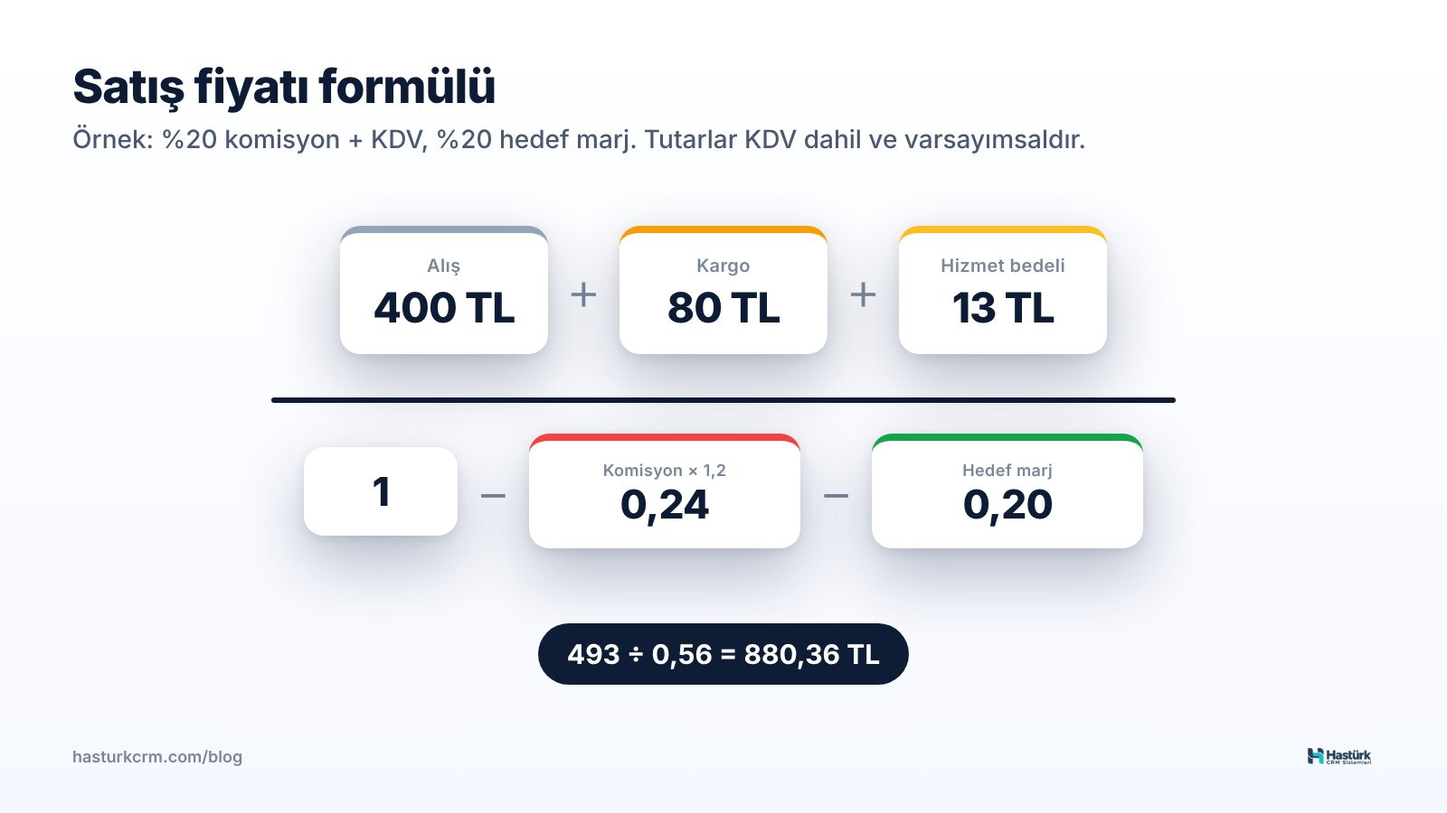
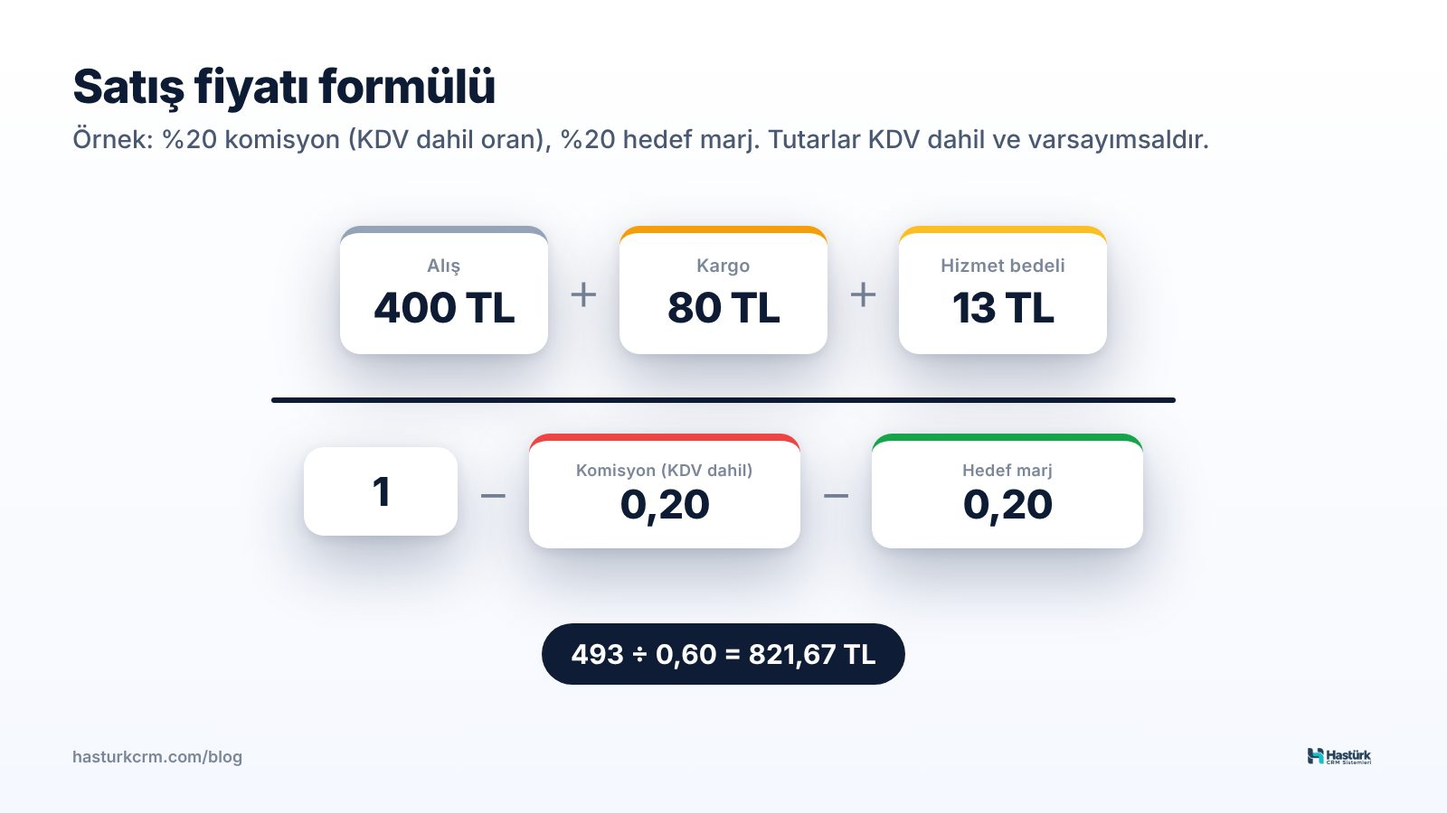
Blog: Trendyol komisyonu KDV dahil — yayındaki 4 yazının örnekleri düzeltildi (elle değiştirilmediyse tek seferlik güncellenir), görseller yenilendi
Claude-Session: https://claude.ai/code/session_01XRDvxG9AZmP7zbj5e9CVqs

Changed region(s): [[0.2188, 0.1556, 0.8438, 0.1867], [0.375, 0.7778, 0.625, 0.84], [0.4062, 0.56, 0.5312, 0.6533]]

diff --git a/panel/src/blogseed-posts-2b.js b/panel/src/blogseed-posts-2b.js
@@ -31,9 +31,9 @@ Bir pazaryeri satışında müşterinin ödediği tutar sizin cebinize olduğu g
 - **Orantılı ve sabit giderler ayrı ele alınır.** Komisyon fiyat yükseldikçe artar; kargo ve hizmet bedeli ise sipariş başına neredeyse sabittir. Bu yüzden düşük fiyatlı ürünlerde sabit giderler kârın büyük kısmını alır. Ayrıntılı örneği [Trendyol komisyon ve net kâr rehberimizde](/blog/trendyol-komisyon-orani-net-kar-hesaplama) bulabilirsiniz.
 - **Stopaj gider değildir, peşin ödenen vergidir.** Pazaryerleri 1 Ocak 2025'ten beri satıcıya yaptıkları ödemelerden KDV hariç satış tutarının %1'i oranında gelir / kurumlar vergisi kesintisi yapar. Bu tutar hakedişinizi azaltır ama yıllık beyanınızda ödenecek vergiden mahsup edilir. Fiyat hesabında kâr kalemi olarak değil, nakit akışı kalemi olarak düşünün. Tek başına hesaplamak için [stopaj hesaplama aracını](/araclar/e-ticaret-stopaj-hesaplama) kullanabilirsiniz.
 
-### Komisyon neden 1,2 ile çarpılır?
+### Komisyon oranı KDV dahil mi, hariç mi?
 
-Komisyon bir hizmet bedelidir ve pazaryeri komisyon faturasını KDV ekleyerek keser. Panelde %20 olarak gördüğünüz komisyon KDV hariç bir oransa, cebinizden çıkan tutar satış fiyatının %24'üdür (%20 × 1,20). Bu KDV'yi beyannamenizde indirebildiğiniz için kârınızı KDV hariç hesaplarken komisyon yine %20 olarak düşer. Aşağıdaki formüller ürünün ve hizmetlerin %20 KDV'li olduğu durum için kurulmuştur; farklı KDV oranlı ürünlerde hesap aracı oranı kendisi ayarlar.
+Komisyon bir hizmet bedelidir ve KDV'ye tabidir; hesaba başlamadan önce oranın KDV dahil mi hariç mi yayımlandığına bakın. Trendyol'un resmî komisyon tablosundaki oranlar **KDV dahildir**: %20 yazıyorsa cebinizden çıkan tutar satış fiyatının %20'sidir, üzerine ayrıca KDV eklenmez. Hepsiburada'nın resmî listesindeki oranlar ise **KDV hariçtir** (+KDV): %20 yazan bir oranda cebinizden çıkan tutar satış fiyatının %24'üdür (%20 × 1,20). Komisyondaki KDV'yi beyannamenizde indirebildiğiniz için kârınızı KDV hariç hesaplarken komisyonun KDV hariç tutarı düşülür. Aşağıdaki örneklerde komisyon oranı KDV dahildir; formüller ürünün ve hizmetlerin %20 KDV'li olduğu durum için kurulmuştur; farklı KDV oranlı ürünlerde hesap aracı oranı kendisi ayarlar.
 
 ## Kâr marjı ve kâr oranı (markup) aynı şey değildir
 
@@ -46,50 +46,50 @@ Pazaryerinde ikisi arasındaki fark çok daha büyüktür, çünkü satış fiya
 
 ### "Maliyetin üstüne %50 koydum" hatası
 
-Aşağıdaki örnekte tüm oranlar ve tutarlar **varsayımsaldır**. Ürün %20 KDV'li, alış maliyeti 400 TL (KDV dahil), komisyon %20 + KDV, kargo 80 TL (KDV dahil), platform hizmet bedeli 13 TL (KDV dahil). Satıcı maliyetin üstüne %50 ekleyip ürünü 600 TL'ye satıyor:
+Aşağıdaki örnekte tüm oranlar ve tutarlar **varsayımsaldır**. Ürün %20 KDV'li, alış maliyeti 400 TL (KDV dahil), komisyon %20 (KDV dahil oran), kargo 80 TL (KDV dahil), platform hizmet bedeli 13 TL (KDV dahil). Satıcı maliyetin üstüne %50 ekleyip ürünü 600 TL'ye satıyor:
 
 | Kalem (KDV hariç) | Tutar |
 | --- | --- |
 | Satış (600 ÷ 1,20) | 500,00 TL |
-| Komisyon (%20) | −120,00 TL |
+| Komisyon (%20) | −100,00 TL |
 | Kargo (80 ÷ 1,20) | −66,67 TL |
 | Hizmet bedeli (13 ÷ 1,20) | −10,83 TL |
 | Alış maliyeti (400 ÷ 1,20) | −333,33 TL |
-| **Kâr** | **−30,83 TL** |
+| **Kâr** | **−10,83 TL** |
 
-Satıcı "her satıştan 200 TL kazanıyorum" diye düşünürken aslında her satışta yaklaşık 31 TL zarar ediyor. Ciro arttıkça zarar da büyüyor. Bu tablo, fiyatı neden maliyetten ileriye değil hedef kârdan geriye doğru hesaplamanız gerektiğini özetliyor.
+Satıcı "her satıştan 200 TL kazanıyorum" diye düşünürken aslında her satışta yaklaşık 11 TL zarar ediyor. Ciro arttıkça zarar da büyüyor. Bu tablo, fiyatı neden maliyetten ileriye değil hedef kârdan geriye doğru hesaplamanız gerektiğini özetliyor.
 
 ## Satış fiyatı formülü
 
 Hedef kârınızı KDV hariç satış tutarına oranla, yani **kâr marjı** olarak belirlediğinizde satış fiyatı (KDV dahil) şöyle bulunur:
 
-**Satış fiyatı = (Alış maliyeti + Kargo + Hizmet bedeli) ÷ (1 − 1,2 × Komisyon oranı − Hedef marj)**
+**Satış fiyatı = (Alış maliyeti + Kargo + Hizmet bedeli) ÷ (1 − Komisyon oranı − Hedef marj)**
 
-![Satış fiyatı formülü: sabit giderler bölü komisyon ve hedef marjdan kalan pay](https://hasturkcrm.com/img/blog/satis-fiyati-formulu.jpg "Örnek: 493 TL sabit gider, %20 komisyon + KDV ve %20 hedef marjla satış fiyatı")
+![Satış fiyatı formülü: sabit giderler bölü komisyon ve hedef marjdan kalan pay](https://hasturkcrm.com/img/blog/satis-fiyati-formulu.jpg "Örnek: 493 TL sabit gider, %20 komisyon (KDV dahil) ve %20 hedef marjla satış fiyatı")
 
-Formüldeki tüm tutarlar KDV dahildir; komisyon oranı KDV hariç bir orana göre yazılmıştır (Hepsiburada listesi gibi). Oranınız zaten KDV dahilse (Trendyol listesi gibi) 1,2 ile çarpmayın, oranı olduğu gibi kullanın. Paydadaki 1,2 × komisyon, KDV'siyle birlikte komisyonun fiyat içindeki payıdır. Hedef marj ise kârınızın KDV hariç satış tutarına oranıdır.
+Formüldeki tüm tutarlar KDV dahildir; komisyon oranı KDV dahil orandır (Trendyol'un resmî tablosundaki gibi), yani KDV'siyle birlikte komisyonun fiyat içindeki payıdır. Oranınız KDV hariç yayımlanıyorsa (Hepsiburada'nın resmî listesi gibi) formülde oranı 1,2 ile çarparak kullanın: %20 + KDV için 0,24. Hedef marj ise kârınızın KDV hariç satış tutarına oranıdır.
 
 ### Adım adım örnek
 
 Aynı ürün için hedefimiz, KDV hariç satış tutarının %20'si kadar kâr bırakmak olsun.
 
 1. **Sabit giderleri toplayın:** 400 (alış) + 80 (kargo) + 13 (hizmet bedeli) = 493 TL.
-2. **Paydayı bulun:** 1 − (1,2 × 0,20) − 0,20 = 1 − 0,24 − 0,20 = 0,56.
-3. **Bölün:** 493 ÷ 0,56 = 880,36 TL.
-4. **Yuvarlayın:** Fiyatı 879,90 TL olarak belirleyelim.
+2. **Paydayı bulun:** 1 − 0,20 − 0,20 = 0,60.
+3. **Bölün:** 493 ÷ 0,60 = 821,67 TL.
+4. **Yuvarlayın:** Fiyatı 819,90 TL olarak belirleyelim.
 
 Sağlamasını KDV hariç tutarlarla yapalım:
 
 | Kalem (KDV hariç) | Tutar |
 | --- | --- |
-| Satış (879,90 ÷ 1,20) | 733,25 TL |
-| Komisyon (%20) | −175,98 TL |
+| Satış (819,90 ÷ 1,20) | 683,25 TL |
+| Komisyon (%20) | −136,65 TL |
 | Kargo | −66,67 TL |
 | Hizmet bedeli | −10,83 TL |
 | Alış maliyeti | −333,33 TL |
-| **Kâr** | **146,44 TL** |
+| **Kâr** | **135,77 TL** |
 
-146,44 ÷ 733,25 = **%20,0**. Hedeflenen marj tutuyor. Bu siparişte hakedişiniz 879,90 − 211,18 (KDV'li komisyon) − 80 − 13 − 7,33 (stopaj) = **568,39 TL** olur; kârın bir kısmı KDV farkı olarak devlete, stopaj kadarı da yıl sonunda vergiden mahsup edilmek üzere vergi dairesine gider.
+135,77 ÷ 683,25 = **%19,9**. Fiyatı aşağı yuvarladığımız küçük payla hedeflenen marj tutuyor. Bu siparişte hakedişiniz 819,90 − 163,98 (KDV dahil komisyon) − 80 − 13 − 6,83 (stopaj) = **556,09 TL** olur; kârın bir kısmı KDV farkı olarak devlete, stopaj kadarı da yıl sonunda vergiden mahsup edilmek üzere vergi dairesine gider.
 
 ### Hedef marja göre gereken fiyat
 
@@ -97,12 +97,12 @@ Aynı varsayımlarla farklı hedef marjlar için gereken fiyat:
 
 | Hedef marj | Gereken satış fiyatı (KDV dahil) | Sipariş başına kâr (KDV hariç) |
 | --- | --- | --- |
-| %0 (başabaş) | 648,68 TL | 0,00 TL |
-| %10 | 746,97 TL | 62,25 TL |
-| %20 | 880,36 TL | 146,73 TL |
-| %30 | 1.071,74 TL | 267,93 TL |
+| %0 (başabaş) | 616,25 TL | 0,00 TL |
+| %10 | 704,29 TL | 58,69 TL |
+| %20 | 821,67 TL | 136,94 TL |
+| %30 | 986,00 TL | 246,50 TL |
 
-Tablodaki ilk satır özellikle önemlidir: **648,68 TL bu ürünün başabaş fiyatıdır.** Bunun altındaki her satış, kesintiler ve maliyet düşüldükten sonra zarar demektir. Kampanyaya katılırken, buybox için fiyat kırarken ya da otomatik fiyat kuralı tanımlarken alt sınırınız bu fiyatın üstünde olmalıdır.
+Tablodaki ilk satır özellikle önemlidir: **616,25 TL bu ürünün başabaş fiyatıdır.** Bunun altındaki her satış, kesintiler ve maliyet düşüldükten sonra zarar demektir. Kampanyaya katılırken, buybox için fiyat kırarken ya da otomatik fiyat kuralı tanımlarken alt sınırınız bu fiyatın üstünde olmalıdır.
 
 ## Reklam, iade ve diğer giderleri fiyata katmak
 
@@ -120,12 +120,12 @@ Aynı ürün farklı kanallarda farklı kesintilerle satılır. Komisyon oranı,
 
 | | Kanal A | Kanal B |
 | --- | --- | --- |
-| Komisyon (KDV hariç) | %20 | %15 |
+| Komisyon (KDV dahil) | %20 | %15 |
 | Kargo (KDV dahil) | 80 TL | 70 TL |
 | Hizmet bedeli (KDV dahil) | 13 TL | Yok |
-| %20 marj için gereken fiyat | 880,36 TL | 758,06 TL |
+| %20 marj için gereken fiyat | 821,67 TL | 723,08 TL |
 
-Fark %16'yı aşıyor. Bu noktada iki yaklaşım vardır:
+Fark %13'ü aşıyor. Bu noktada iki yaklaşım vardır:
 
 - **Her kanalda kendi hesabına göre fiyat:** Her kanalda aynı marjı korursunuz. Dezavantajı, müşterinin fiyat farkını görmesi ve kanallar arasında fiyat takibinin zorlaşmasıdır.
 - **Tek fiyat:** Yönetimi kolaydır ama düşük kesintili kanalda fazla, yüksek kesintili kanalda az kâr edersiniz. Yüksek kesintili kanalda başabaş fiyatın altına düşmediğinizi mutlaka kontrol edin.
@@ -134,7 +134,7 @@ Pratikte birçok satıcı, kanallar arasında sabit bir oran farkı belirleyip (
 
 ## İndirim ve kampanya fiyatı
 
-Kampanyaya katılmadan önce indirimli fiyatla kârınızı yeniden hesaplayın. Yukarıdaki 879,90 TL'lik ürünü %10 indirimle 791,91 TL'ye sattığınızda komisyon da düşer, ama kargo, hizmet bedeli ve alış maliyeti değişmez. Aynı hesapla kârınız 146,44 TL'den **90,71 TL'ye** iner. Yani %10'luk indirim kârı yaklaşık **%38 azaltır**. Bu kaybı telafi etmek için satış adedinin belirgin biçimde artması gerekir. Kampanya öncesi hesap için [indirim sonrası kâr hesaplama aracı](/araclar/indirim-kar-hesaplama) zarar etmeden yapabileceğiniz en yüksek indirimi gösterir.
+Kampanyaya katılmadan önce indirimli fiyatla kârınızı yeniden hesaplayın. Yukarıdaki 819,90 TL'lik ürünü %10 indirimle 737,91 TL'ye sattığınızda komisyon da düşer, ama kargo, hizmet bedeli ve alış maliyeti değişmez. Aynı hesapla kârınız 135,77 TL'den **81,11 TL'ye** iner. Yani %10'luk indirim kârı yaklaşık **%40 azaltır**. Bu kaybı telafi etmek için satış adedinin belirgin biçimde artması gerekir. Kampanya öncesi hesap için [indirim sonrası kâr hesaplama aracı](/araclar/indirim-kar-hesaplama) zarar etmeden yapabileceğiniz en yüksek indirimi gösterir.
 
 İndirim yaparken yasal bir kuralı da unutmayın: Fiyat Etiketi Yönetmeliği'nde 2022'de yapılan değişiklikle, indirimli satışta indirimden önceki fiyat olarak **indirimden önceki 30 gün içinde uygulanan en düşük fiyat** esas alınır. Fiyatı önce yükseltip ardından "indirim" göstermek bu kurala aykırıdır ve ispat yükü satıcıdadır. Kampanya fiyatlarınızı planlarken fiyat geçmişinizi kayıt altında tutun.
 
@@ -145,7 +145,7 @@ Formül size alt sınırı ve hedef fiyatı verir; ama son fiyatı belirlerken p
 - **Maliyet bazlı fiyat:** Yukarıdaki formülle hedef marjdan fiyat bulunur. Rekabetin az olduğu, kendi markanızla sattığınız ürünlerde ana yöntemdir.
 - **Rekabet bazlı fiyat:** Aynı ürünü başka satıcılar da satıyorsa fiyat büyük ölçüde pazarda belirlenir. Burada formül size "bu fiyata inebilir miyim?" sorusunun cevabını verir: piyasa fiyatı başabaş fiyatınızın altındaysa, o üründe rekabet etmek yerine maliyetinizi düşürmeyi ya da ürünü bırakmayı düşünmelisiniz.
 - **Değer bazlı fiyat:** Müşterinin ürüne biçtiği değere göre fiyat koymaktır. Güçlü marka, özgün ürün, iyi yorumlar ve hızlı teslimat daha yüksek fiyatı taşıyabilir.
-- **Psikolojik fiyat:** 880 TL yerine 879,90 TL gibi küsuratlı fiyatlar yaygındır. Etkisi kategoriye göre değişir; yuvarlamanın marjınızı başabaşın altına itmediğinden emin olun.
+- **Psikolojik fiyat:** 820 TL yerine 819,90 TL gibi küsuratlı fiyatlar yaygındır. Etkisi kategoriye göre değişir; yuvarlamanın marjınızı başabaşın altına itmediğinden emin olun.
 - **Set ve paket fiyatı:** Sabit kesintiler düşük fiyatlı ürünlerde kârı eritiyorsa, ikili ya da üçlü set yaparak kargo ve hizmet bedelini birden fazla ürüne bölebilirsiniz.
 
 Aynı ürünü birden fazla satıcının sattığı ilanlarda fiyat, buybox için de belirleyici etkenlerden biridir. Ama buybox için fiyat kırarken bile başabaş fiyatın altına inmemek gerekir.
@@ -167,7 +167,7 @@ Dövizle aldığınız ürünlerde kur değişikliklerini elle takip etmek zordu
 
 - **Maliyete yüzde ekleyip kesintileri unutmak:** Yukarıdaki örnekte olduğu gibi %50 kâr oranı zarara dönüşebilir.
 - **KDV dahil ve hariç tutarları karıştırmak:** Satış fiyatı KDV dahil, kâr ise KDV hariç hesaplanmalıdır. İkisini karıştırmak kârı olduğundan yüksek gösterir.
-- **Komisyonun KDV'sini atlamak:** Panelde %20 görünen komisyon nakit olarak fiyatın %24'ünü alır.
+- **Komisyon oranının KDV esasını karıştırmak:** Hepsiburada'nın resmî listesindeki gibi KDV hariç %20'lik bir komisyon nakit olarak fiyatın %24'ünü alır. Trendyol'un resmî tablosundaki oranlar ise KDV dahildir; bunlara ayrıca KDV eklemek kârı olduğundan düşük gösterir.
 - **Stopajı kâr kaybı sanmak ya da tamamen unutmak:** Stopaj nakit akışını etkiler ama yıl sonunda mahsup edilir.
 - **Tek bir ürün için hesap yapıp tüm kataloğa genellemek:** Desi, komisyon ve maliyet ürün bazında değişir; hesap da ürün bazında yapılmalıdır.
 - **Fiyatı bir kez belirleyip unutmak:** Maliyetler ve kesintiler değiştiğinde dünün doğru fiyatı bugün zarar ettirebilir.
@@ -184,7 +184,7 @@ Panelin nasıl çalıştığını kayıt olmadan [canlı demoda](/demo) inceleye
 
 ### Satış fiyatı nasıl hesaplanır?
 
-Alış maliyeti, kargo ve hizmet bedeli gibi sipariş başına sabit giderleri toplayın; bu toplamı 1'den komisyonun KDV'li payını ve hedef kâr marjınızı çıkardığınızda kalan orana bölün. %20 komisyon ve %20 hedef marjla 493 TL'lik sabit gider için fiyat 493 ÷ 0,56 = 880,36 TL olur.
+Alış maliyeti, kargo ve hizmet bedeli gibi sipariş başına sabit giderleri toplayın; bu toplamı 1'den komisyonun KDV dahil payını ve hedef kâr marjınızı çıkardığınızda kalan orana bölün. %20 (KDV dahil) komisyon ve %20 hedef marjla 493 TL'lik sabit gider için fiyat 493 ÷ 0,60 = 821,67 TL olur. Oranınız KDV hariç yayımlanıyorsa (Hepsiburada'nın resmî listesi gibi) önce 1,2 ile çarpın.
 
 ### Kâr marjı ile kâr oranı arasındaki fark nedir?
 
@@ -276,16 +276,16 @@ Buybox rekabetine katılabilmek için bazı temel koşulları sağlamanız gerek
 
 Buybox rekabetinin en tehlikeli yanı fiyat savaşıdır. İki satıcı birbirinin altına inmeye devam ettiğinde fiyat kısa sürede başabaşın altına düşebilir. Bunu önlemenin yolu, her ürün için bir **en düşük fiyat** belirlemektir.
 
-Aşağıdaki örnekte tüm tutarlar **varsayımsaldır**. Ürün %20 KDV'li, alış maliyeti 400 TL, kargo 80 TL, platform hizmet bedeli 13 TL (tümü KDV dahil), komisyon %20 + KDV:
+Aşağıdaki örnekte tüm tutarlar **varsayımsaldır**. Ürün %20 KDV'li, alış maliyeti 400 TL, kargo 80 TL, platform hizmet bedeli 13 TL (tümü KDV dahil), komisyon %20 (Trendyol'un resmî tablosundaki gibi KDV dahil oran):
 
 | Fiyat (KDV dahil) | Sipariş başına kâr (KDV hariç) | Durum |
 | --- | --- | --- |
-| 879,90 TL | 146,44 TL | Hedef fiyat (%20 marj) |
-| 749,90 TL | 64,10 TL | Kâr düşük ama pozitif |
-| 649,90 TL | 0,77 TL | Başabaşın hemen üstü |
-| 629,90 TL | −11,90 TL | Zarar |
+| 819,90 TL | 135,77 TL | Hedef fiyat (%20 marj) |
+| 749,90 TL | 89,10 TL | Kâr düşük ama pozitif |
+| 619,90 TL | 2,43 TL | Başabaşın hemen üstü |
+| 599,90 TL | −10,90 TL | Zarar |
 
-Bu üründe başabaş fiyatı yaklaşık 648,68 TL'dir. Rakip 629,90 TL'ye indiğinde onu takip etmek, her satışta zarar etmek demektir. Bu durumda yapılacak şey fiyat kırmak değil; rakibin bu fiyatı ne kadar sürdürebileceğini izlemek, diğer etkenlerde (teslimat süresi, mağaza performansı) güçlü kalmak ya da maliyetinizi düşürmenin yolunu aramaktır.
+Bu üründe başabaş fiyatı yaklaşık 616,25 TL'dir. Rakip 599,90 TL'ye indiğinde onu takip etmek, her satışta zarar etmek demektir. Bu durumda yapılacak şey fiyat kırmak değil; rakibin bu fiyatı ne kadar sürdürebileceğini izlemek, diğer etkenlerde (teslimat süresi, mağaza performansı) güçlü kalmak ya da maliyetinizi düşürmenin yolunu aramaktır.
 
 Alt sınırı belirlerken yalnız başabaşa değil, kabul edebileceğiniz en düşük kâra göre karar verin. Örneğin "sipariş başına en az 30 TL kâr" gibi bir kural, reklam ve iade gibi öngörülemeyen giderler için güvenlik payı bırakır. Kampanya döneminde fiyatınızı düşürecekseniz [indirim sonrası kâr hesaplama aracıyla](/araclar/indirim-kar-hesaplama) kârınızı önceden kontrol edin.
 
@@ -317,7 +317,7 @@ Fiyatınız en düşük olduğu halde buybox rakipteyse sorun büyük ihtimalle 
 
 Buybox'ı kaybettiğinizde elinizde iki kaldıraç vardır: fiyat ve hizmet. Fiyat kaldıracı hızlıdır ama her kullanımda kârınızdan bir parça götürür ve rakip de aynı kaldıracı kullanabilir. Hizmet kaldıracı (daha kısa kargolama süresi, zamanında teslim, düşük iptal) daha yavaş sonuç verir ama kalıcıdır ve rakibin kopyalaması zordur.
 
-Aşağıdaki örnek (varsayımsal) farkı gösteriyor: yukarıdaki üründe ayda 300 adet satıyorsunuz. Buybox'ı geri almak için fiyatı 879,90 TL'den 849,90 TL'ye indirdiğinizde sipariş başına kârınız KDV hariç yaklaşık 19 TL azalır; bu da ayda yaklaşık 5.700 TL demektir. Aynı tutarı depo düzenine, paketleme hızına ya da kargo teslim saatinin öne alınmasına harcamak, yalnız bu üründe değil tüm ürünlerinizde buybox şansınızı ve mağaza puanınızı iyileştirebilir. Doğru cevap çoğu zaman ikisinin dengesidir: fiyatı alt sınırla korunan küçük adımlarla yönetirken hizmet tarafını sürekli iyileştirmek.
+Aşağıdaki örnek (varsayımsal) farkı gösteriyor: yukarıdaki üründe ayda 300 adet satıyorsunuz. Buybox'ı geri almak için fiyatı 819,90 TL'den 789,90 TL'ye indirdiğinizde sipariş başına kârınız KDV hariç 20 TL azalır; bu da ayda 6.000 TL demektir. Aynı tutarı depo düzenine, paketleme hızına ya da kargo teslim saatinin öne alınmasına harcamak, yalnız bu üründe değil tüm ürünlerinizde buybox şansınızı ve mağaza puanınızı iyileştirebilir. Doğru cevap çoğu zaman ikisinin dengesidir: fiyatı alt sınırla korunan küçük adımlarla yönetirken hizmet tarafını sürekli iyileştirmek.
 
 ### Buybox için haftalık kontrol rutini
 
@@ -559,7 +559,7 @@ Hakediş, en basit haliyle şöyle hesaplanır:
 
 **Hakediş = Satış tutarı − Komisyon − Kargo − Hizmet bedeli − Stopaj − Diğer kesintiler ± Düzeltmeler**
 
-Örneğin (varsayımsal) %20 KDV'li 1.000 TL'lik bir satışta komisyon %20 + KDV (240 TL), kargo 80 TL, platform hizmet bedeli 13 TL ve %1 stopaj (1.000 ÷ 1,20 × %1 = 8,33 TL) düşüldüğünde hakediş **658,67 TL** olur. Bu hesabın ayrıntılarını [Trendyol komisyon ve net kâr rehberimizde](/blog/trendyol-komisyon-orani-net-kar-hesaplama) adım adım anlattık.
+Örneğin (varsayımsal) %20 KDV'li 1.000 TL'lik bir satışta komisyon %20 (Trendyol'un resmî tablosundaki gibi KDV dahil oran; 200 TL), kargo 80 TL, platform hizmet bedeli 13 TL ve %1 stopaj (1.000 ÷ 1,20 × %1 = 8,33 TL) düşüldüğünde hakediş **698,67 TL** olur. Bu hesabın ayrıntılarını [Trendyol komisyon ve net kâr rehberimizde](/blog/trendyol-komisyon-orani-net-kar-hesaplama) adım adım anlattık.
 
 ### Hakediş kâr değildir
 
@@ -608,18 +608,18 @@ Burada dikkat edilmesi gereken nokta, kesinti faturalarının siparişle aynı a
 
 ## Örnek: bir haftalık hakediş kontrolü
 
-Aşağıdaki örnekte tüm tutarlar **varsayımsaldır**. Bu hafta vadesi dolan iki sipariş var; ikisi de %20 KDV'li, komisyon %20 + KDV, hizmet bedeli 13 TL.
+Aşağıdaki örnekte tüm tutarlar **varsayımsaldır**. Bu hafta vadesi dolan iki sipariş var; ikisi de %20 KDV'li, komisyon %20 (KDV dahil oran), hizmet bedeli 13 TL.
 
 | | Sipariş A | Sipariş B |
 | --- | --- | --- |
 | Satış tutarı | 1.000,00 TL | 500,00 TL |
-| Komisyon (%24) | −240,00 TL | −120,00 TL |
+| Komisyon (%20) | −200,00 TL | −100,00 TL |
 | Beklenen kargo | −80,00 TL | −60,00 TL |
 | Hizmet bedeli | −13,00 TL | −13,00 TL |
 | Stopaj | −8,33 TL | −4,17 TL |
-| **Beklenen hakediş** | **658,67 TL** | **302,83 TL** |
+| **Beklenen hakediş** | **698,67 TL** | **322,83 TL** |
 
-Beklenen toplam 961,50 TL. Hesabınıza ise 946,50 TL yatmış: 15 TL fark var. Ekstreyi sipariş bazında açtığınızda A siparişinin kargo faturasının 80 TL yerine 95 TL kesildiğini görüyorsunuz. Paketin desisi faturada bir üst kademeden okunmuş. Bu durumda paket ölçüleri ve ürün kartınızdaki desi bilgisiyle itiraz edebilirsiniz.
+Beklenen toplam 1.021,50 TL. Hesabınıza ise 1.006,50 TL yatmış: 15 TL fark var. Ekstreyi sipariş bazında açtığınızda A siparişinin kargo faturasının 80 TL yerine 95 TL kesildiğini görüyorsunuz. Paketin desisi faturada bir üst kademeden okunmuş. Bu durumda paket ölçüleri ve ürün kartınızdaki desi bilgisiyle itiraz edebilirsiniz.
 
 15 TL tek başına küçük görünür. Ama aynı hata haftada 200 siparişte tekrarlanıyorsa, ayda 12.000 TL'yi aşan bir kayıp demektir. Mutabakatın amacı tam olarak bu küçük ama sürekli farkları yakalamaktır. Kargo farklarını azaltmanın yollarını [kargo maliyetini düşürme rehberimizde](/blog/e-ticarette-kargo-maliyeti-dusurme) ayrıca anlattık.
 

diff --git a/panel/src/blogseed-posts.js b/panel/src/blogseed-posts.js
@@ -730,7 +730,7 @@ Trendyol'un kendi örneğinde %20 komisyonlu bir kategoride 100 TL'lik ürünün
 Hesapta dikkat edilmesi gereken üç nokta var:
 
 - **Oran kategoriye göre değişir.** Aynı mağazada bir ürün düşük, diğeri yüksek komisyonlu olabilir. Doğru oran, ürünün yüklü olduğu kategorinin oranıdır.
-- **Komisyon faturası KDV'lidir.** Komisyon bir hizmet bedelidir ve Trendyol size komisyon faturasını KDV ekleyerek keser. Panelde gördüğünüz oran KDV hariçse, cebinizden çıkan tutar bunun KDV eklenmiş halidir. Ödediğiniz bu KDV'yi, KDV beyannamenizde indirim konusu yapabilirsiniz.
+- **Oran KDV dahildir.** Trendyol'un resmî komisyon tablosundaki oranlar KDV dahil yayımlanır: tabloda %20 yazıyorsa cebinizden çıkan tutar satış fiyatının %20'sidir, üzerine ayrıca KDV eklenmez. Komisyon bir hizmet bedeli olduğu için bu tutarın içinde KDV vardır (%20 KDV'de tutarın altıda biri); bu KDV'yi KDV beyannamenizde indirim konusu yapabilirsiniz. Hepsiburada'nın resmî listesindeki oranlar ise KDV hariçtir; orada komisyona %20 KDV eklenir.
 - **İadede komisyon geri döner.** İadesi onaylanan siparişin daha önce faturalanan komisyonu, bir sonraki komisyon faturasında mahsup edilir.
 
 ### Komisyon oranımı nereden öğrenirim?
@@ -743,7 +743,7 @@ Güncel oranlar satıcı panelinizdeki komisyon bölümünde ve ürün bazında 
 
 | Kalem | Ne zaman uygulanır? | Nasıl hesaplanır? |
 | --- | --- | --- |
-| Satış komisyonu | Her satışta | Satış fiyatı × kategori oranı (+ KDV) |
+| Satış komisyonu | Her satışta | Satış fiyatı × kategori oranı (oran KDV dahil) |
 | Kargo ücreti | Anlaşmalı kargoyla gönderimde | Paketin desisine göre; barem altı siparişte daha düşük |
 | Platform hizmet bedeli | Sipariş başına | Sabit tutar; dönemsel güncellenir |
 | E-ticaret stopajı | Her satışta | KDV hariç satış tutarı × %1 |
@@ -768,20 +768,20 @@ Kesilen stopaj kaybolan bir para değildir: yıllık gelir ya da kurumlar vergis
 
 Aşağıdaki örnekte tüm oranlar ve tutarlar **varsayımsaldır**; yalnızca hesabın mantığını göstermek için seçilmiştir. Kendi kategorinizin oranını ve kendi kargo tutarınızı kullanın.
 
-**Varsayımlar:** Ürün %20 KDV'li. Satış fiyatı 1.000 TL (KDV dahil). Komisyon %20 + KDV. Kargo 80 TL (KDV dahil). Platform hizmet bedeli 13 TL (KDV dahil). Ürünün alış maliyeti 400 TL (KDV dahil, %20 KDV'li).
+**Varsayımlar:** Ürün %20 KDV'li. Satış fiyatı 1.000 TL (KDV dahil). Komisyon %20 (KDV dahil). Kargo 80 TL (KDV dahil). Platform hizmet bedeli 13 TL (KDV dahil). Ürünün alış maliyeti 400 TL (KDV dahil, %20 KDV'li).
 
 ### 1. Adım: Hakediş (elinize geçen tutar)
 
 | Kalem | Tutar |
 | --- | --- |
 | Satış fiyatı (KDV dahil) | 1.000,00 TL |
-| Komisyon (%20 + KDV = %24) | −240,00 TL |
+| Komisyon (%20, KDV dahil) | −200,00 TL |
 | Kargo | −80,00 TL |
 | Platform hizmet bedeli | −13,00 TL |
 | Stopaj (1.000 ÷ 1,20 × %1) | −8,33 TL |
-| **Hakediş** | **658,67 TL** |
+| **Hakediş** | **698,67 TL** |
 
-Toplam kesinti 341,33 TL, yani satış fiyatının yaklaşık üçte biri. Hakedişten alış maliyetini (400 TL) düştüğünüzde **258,67 TL** kalır. Pek çok satıcı hesabı burada bitirir; ama bu rakam henüz kâr değildir, çünkü KDV farkı ödenmemiştir.
+Toplam kesinti 301,33 TL, yani satış fiyatının yaklaşık %30'u. Hakedişten alış maliyetini (400 TL) düştüğünüzde **298,67 TL** kalır. Pek çok satıcı hesabı burada bitirir; ama bu rakam henüz kâr değildir, çünkü KDV farkı ödenmemiştir.
 
 ### 2. Adım: KDV farkı
 
@@ -790,30 +790,30 @@ Müşteriye 1.000 TL'lik fatura kestiğinizde bunun 166,67 TL'si devlete ödeyec
 | KDV kalemi | Tutar |
 | --- | --- |
 | Satıştaki KDV (hesaplanan) | 166,67 TL |
-| Komisyon faturasındaki KDV | −40,00 TL |
+| Komisyondaki KDV (200 TL'nin içinde) | −33,33 TL |
 | Kargo faturasındaki KDV | −13,33 TL |
 | Hizmet bedelindeki KDV | −2,17 TL |
 | Alış faturasındaki KDV | −66,67 TL |
-| **Ödenecek KDV** | **44,50 TL** |
+| **Ödenecek KDV** | **51,17 TL** |
 
 ### 3. Adım: Gerçek kâr
 
-258,67 TL − 44,50 TL = **214,17 TL**. Bu tutara, peşin ödenmiş vergi niteliğindeki 8,33 TL stopajı eklediğinizde KDV hariç kârınız **222,50 TL** olur; yani KDV hariç satış tutarının (833,33 TL) yaklaşık %26,7'si. Gelir ya da kurumlar vergisi bu kâr üzerinden ayrıca hesaplanır.
+298,67 TL − 51,17 TL = **247,50 TL**. Bu tutara, peşin ödenmiş vergi niteliğindeki 8,33 TL stopajı eklediğinizde KDV hariç kârınız **255,83 TL** olur; yani KDV hariç satış tutarının (833,33 TL) yaklaşık %30,7'si. Gelir ya da kurumlar vergisi bu kâr üzerinden ayrıca hesaplanır.
 
-Aynı hesabı KDV hariç tutarlarla yaparak sağlamasını alabilirsiniz: 833,33 (satış) − 200,00 (komisyon) − 66,67 (kargo) − 10,83 (hizmet bedeli) − 333,33 (alış) = 222,50 TL.
+Aynı hesabı KDV hariç tutarlarla yaparak sağlamasını alabilirsiniz: 833,33 (satış) − 166,67 (komisyon) − 66,67 (kargo) − 10,83 (hizmet bedeli) − 333,33 (alış) = 255,83 TL.
 
 > **Önemli:** Bu örnekte reklam, iade, kampanya indirimi, paketleme malzemesi, personel ve kira gibi giderler yoktur. Gerçek hayatta bunlar da kârdan düşer. Özellikle iade oranı yüksek kategorilerde, iade edilen siparişlerin gidiş-dönüş kargo maliyeti hesaba katılmadan bulunan kâr yanıltıcıdır.
 
 ## Sabit kesintiler düşük fiyatlı ürünlerde neden daha ağır?
 
-Komisyon ve stopaj fiyatla birlikte artıp azalır; ama kargo ve platform hizmet bedeli sipariş başına neredeyse sabittir. Bu yüzden aynı kategoride, aynı komisyon oranıyla satılan iki ürünün kesinti oranı fiyatlarına göre çok farklı çıkar. Aşağıdaki tabloda yine **varsayımsal** değerler kullanıyoruz: komisyon %20 + KDV, kargo 80 TL, hizmet bedeli 13 TL, KDV %20.
+Komisyon ve stopaj fiyatla birlikte artıp azalır; ama kargo ve platform hizmet bedeli sipariş başına neredeyse sabittir. Bu yüzden aynı kategoride, aynı komisyon oranıyla satılan iki ürünün kesinti oranı fiyatlarına göre çok farklı çıkar. Aşağıdaki tabloda yine **varsayımsal** değerler kullanıyoruz: komisyon %20 (KDV dahil), kargo 80 TL, hizmet bedeli 13 TL, KDV %20.
 
 | Satış fiyatı | Komisyon | Kargo + hizmet bedeli | Stopaj | Toplam kesinti | Satışa oranı |
 | --- | --- | --- | --- | --- | --- |
-| 150 TL | 36,00 TL | 93,00 TL | 1,25 TL | 130,25 TL | %86,8 |
-| 300 TL | 72,00 TL | 93,00 TL | 2,50 TL | 167,50 TL | %55,8 |
-| 1.000 TL | 240,00 TL | 93,00 TL | 8,33 TL | 341,33 TL | %34,1 |
-| 2.500 TL | 600,00 TL | 93,00 TL | 20,83 TL | 713,83 TL | %28,6 |
+| 150 TL | 30,00 TL | 93,00 TL | 1,25 TL | 124,25 TL | %82,8 |
+| 300 TL | 60,00 TL | 93,00 TL | 2,50 TL | 155,50 TL | %51,8 |
+| 1.000 TL | 200,00 TL | 93,00 TL | 8,33 TL | 301,33 TL | %30,1 |
+| 2.500 TL | 500,00 TL | 93,00 TL | 20,83 TL | 613,83 TL | %24,6 |
 
 Tablo bir gerçeği açıkça gösteriyor: düşük fiyatlı ürünlerde asıl yük komisyon değil, sabit kesintilerdir. Gerçek hayatta düşük tutarlı siparişlerde kargo baremi devreye girdiği için kargo tutarı daha düşük olabilir; yine de sipariş başı sabit maliyetler düşük fiyatlı ürünlerin marjını hızla eritir. Bu tür ürünlerde set yapmak, sepet tutarını artıracak tamamlayıcı ürünler sunmak ya da desiyi küçültmek kârlılığın anahtarıdır.
 
@@ -830,9 +830,9 @@ Bu kontrolü yüzlerce siparişte elle yapmak zordur; ama hatalı kesintiler far
 
 ## Kampanya ve indirimin kâra etkisi
 
-Yukarıdaki ürünü %10 indirimle 900 TL'ye sattığınızı düşünün. Komisyon 216 TL'ye, stopaj 7,50 TL'ye düşer; kargo ve hizmet bedeli değişmez. Hakediş 900 − 216 − 80 − 13 − 7,50 = 583,50 TL olur. Alış maliyetini düştüğünüzde 183,50 TL kalır; ödenecek KDV de 150 − 36 − 13,33 − 2,17 − 66,67 = 31,83 TL'ye iner. Gerçek kâr 151,67 TL'dir.
+Yukarıdaki ürünü %10 indirimle 900 TL'ye sattığınızı düşünün. Komisyon 180 TL'ye, stopaj 7,50 TL'ye düşer; kargo ve hizmet bedeli değişmez. Hakediş 900 − 180 − 80 − 13 − 7,50 = 619,50 TL olur. Alış maliyetini düştüğünüzde 219,50 TL kalır; ödenecek KDV de 150 − 30 − 13,33 − 2,17 − 66,67 = 37,83 TL'ye iner. Gerçek kâr 181,67 TL'dir.
 
-Yani **%10'luk indirim, kârı yaklaşık %29 azalttı** (214,17 TL'den 151,67 TL'ye). Sabit kesintiler (kargo, hizmet bedeli) ve alış maliyeti indirimle birlikte azalmadığı için indirimin kâra etkisi her zaman indirim oranından büyüktür. Kampanyaya katılmadan önce [indirim sonrası kâr hesaplama aracımızla](/araclar/indirim-kar-hesaplama) başabaş indirim oranınızı görün.
+Yani **%10'luk indirim, kârı yaklaşık %27 azalttı** (247,50 TL'den 181,67 TL'ye). Sabit kesintiler (kargo, hizmet bedeli) ve alış maliyeti indirimle birlikte azalmadığı için indirimin kâra etkisi her zaman indirim oranından büyüktür. Kampanyaya katılmadan önce [indirim sonrası kâr hesaplama aracımızla](/araclar/indirim-kar-hesaplama) başabaş indirim oranınızı görün.
 
 ## Trendyol’da kârı korumanın 7 yolu
 
@@ -856,7 +856,7 @@ Panelin nasıl çalıştığını kayıt olmadan [canlı demoda](/demo) görebil
 
 ### Trendyol komisyonu KDV dahil fiyattan mı hesaplanır?
 
-Komisyon, ürünün müşteriye satıldığı fiyat üzerinden hesaplanır. Komisyon bir hizmet bedeli olduğu için Trendyol bunun faturasını KDV ekleyerek keser. Panelde gördüğünüz oranın KDV hariç mi dahil mi olduğuna dikkat edin; KDV hariç orana KDV eklendiğinde cebinizden çıkan tutarı bulursunuz.
+Komisyon, ürünün müşteriye satıldığı KDV dahil fiyat üzerinden hesaplanır. Trendyol'un resmî komisyon tablosundaki oranlar da KDV dahildir: %20'lik oranda 1.000 TL'lik satışın komisyonu 200 TL'dir ve üzerine ayrıca KDV eklenmez; bu tutarın içindeki KDV'yi (33,33 TL) beyannamenizde indirebilirsiniz. Hepsiburada'nın resmî listesindeki oranlar ise KDV hariçtir; orada komisyona %20 KDV eklenir.
 
 ### Trendyol komisyon oranları neden ürünlere göre farklı?
 

diff --git a/panel/src/blogseed.js b/panel/src/blogseed.js
@@ -21,6 +21,23 @@ export const THIRD = [0, 1, 2, 3, 4, 5, 6].flatMap((i) => [POSTS_3A[i], POSTS_3B
 const EXTRA = POSTS_3X.map((p, i) => ({ ...p, at: Date.UTC(2026, 10, 2 + i * 3, 7 + ((i * 3) % 7), (i * 29 + 7) % 60) }));
 const ALL = [...POSTS, ...SECOND, ...THIRD, ...EXTRA];
 const REDATE = 'once:blog_redate_1';
+// Yayımlanmış hazır yazıların düzeltmeleri: veritabanındaki gövde hâlâ ilk yüklenen gövdeyse (SHA-256'sı from listesinde) bir kez
+// kaynaktaki güncel yazıyla değiştirilir; sahibi yazıyı elle düzenlediyse dokunulmaz. fields: gövdeyle birlikte güncellenecek diğer
+// alanlar. cover: kapaktaki rakamlar da değişti; yeni kapak siteden alınıp yeni kimlikle kaydedilir (görseller kimlikle 1 yıl
+// önbelleklenir); site henüz eski görseli veriyorsa sonraki çalışmalarda (en fazla 14 gün) yeniden denenir.
+// 1: Trendyol resmî komisyon oranları KDV dahildir (üzerine %20 KDV eklenmez); örnek hesaplar buna göre düzeltildi.
+export const REVISIONS = {
+  'trendyol-komisyon-orani-net-kar-hesaplama': { cover: true, from: [
[2 lines of base64/hex data omitted]
+  ] },
[3 lines of base64/hex data omitted]
+};
+const REV = 'once:blog_rev_1';
+const FIELDS = ['title', 'summary', 'seo_title', 'seo_desc'];
+const sha256 = async (s) => [...new Uint8Array(await crypto.subtle.digest('SHA-256', new TextEncoder().encode(s)))].map((x) => x.toString(16).padStart(2, '0')).join('');
 
 const KEY = 'blog_seed';
 const TYPES = { jpg: 'image/jpeg', jpeg: 'image/jpeg', png: 'image/png', webp: 'image/webp' };
@@ -40,7 +57,45 @@ async function coverImage(env, db, file, fetcher) {
   return id;
 }
 
-export async function blogSeed(env, db, { posts = ALL, fetcher = fetch, now = Date.now() } = {}) {
+// Düzeltmeler (bkz. REVISIONS): gövdeler bir kez, kapaklar site yeni görseli verene kadar. Sonuç: düzeltilen yazılar ve yenilenen kapaklar
+async function revise(env, db, posts, revisions, fetcher, now) {
+  const row = await first(db, 'SELECT v FROM settings WHERE k = ?', REV);
+  let st = null;
+  try { st = row ? JSON.parse(row.v) : null; } catch { st = { covers: [] }; }
+  const out = { revised: [], covers: [] };
+  if (!st) {
+    st = { covers: [], until: now + 14 * 864e5 };
+    for (const [slug, r] of Object.entries(revisions)) {
+      const p = posts.find((x) => x.slug === slug), cur = p && await first(db, 'SELECT id, body FROM blog_posts WHERE slug = ?', slug);
+      if (!cur || !r.from.includes(await sha256(String(cur.body ?? '')))) continue;
+      const f = FIELDS.filter((k) => r.fields?.includes(k) && p[k] != null);
+      await run(db, `UPDATE blog_posts SET body = ?${f.map((k) => `, ${k} = ?`).join('')}, updated_at = ? WHERE id = ? AND body = ?`, p.body, ...f.map((k) => p[k]), now, cur.id, cur.body);
+      out.revised.push(slug);
+      if (r.cover && p.cover) st.covers.push(slug);
+    }
+  }
+  const left = [];
+  for (const slug of st.covers || []) {
+    const p = posts.find((x) => x.slug === slug);
+    const old = p && await first(db, 'SELECT p.id, p.cover_id, i.name, i.data FROM blog_posts p JOIN blog_images i ON i.id = p.cover_id WHERE p.slug = ?', slug);
+    if (!old || old.name !== p.cover) continue; // kapak elle değiştirilmiş / kaldırılmış
+    try {
+      const id = await coverImage(env, db, p.cover, fetcher);
+      if ((await first(db, 'SELECT data FROM blog_images WHERE id = ?', id)).data === old.data) { await run(db, 'DELETE FROM blog_images WHERE id = ?', id); throw new Error('site henüz eski kapağı veriyor'); }
+      await db.batch([
+        db.prepare('UPDATE blog_posts SET cover_id = ? WHERE id = ? AND cover_id = ?').bind(id, old.id, old.cover_id),
+        db.prepare('UPDATE blog_images SET post_id = ? WHERE id = ?').bind(old.id, id),
+        db.prepare('DELETE FROM blog_images WHERE id = ? AND NOT EXISTS (SELECT 1 FROM blog_posts WHERE cover_id = ? OR body LIKE ?)').bind(old.cover_id, old.cover_id, `%img:${old.cover_id}%`),
+      ]);
+      out.covers.push(slug);
+    } catch { if (now < (st.until || 0)) left.push(slug); }
+  }
+  const v = JSON.stringify({ covers: left, until: st.until || 0 });
+  if (!row || row.v !== v) await run(db, 'INSERT INTO settings (k, v) VALUES (?, ?) ON CONFLICT (k) DO UPDATE SET v = excluded.v', REV, v);
+  return out;
+}
+
+export async function blogSeed(env, db, { posts = ALL, fetcher = fetch, now = Date.now(), revisions = posts === ALL ? REVISIONS : {} } = {}) {
   if (env.TENANT_SLUG || env.DEMO) return null;
   // İkinci parti önceden ileri tarihli (2 günde bir) yüklendiyse tarihleri bir kez Ekim başına çekilir; elle tarihi değiştirilmiş
   // (artık ileri tarihli olmayan) yazıya dokunulmaz
@@ -50,11 +105,12 @@ export async function blogSeed(env, db, { posts = ALL, fetcher = fetch, now = Da
       db.prepare("INSERT INTO settings (k, v) VALUES (?, '1') ON CONFLICT (k) DO NOTHING").bind(REDATE),
     ]);
   }
+  const rev = Object.keys(revisions).length ? await revise(env, db, posts, revisions, fetcher, now) : { revised: [], covers: [] };
   const row = await first(db, 'SELECT v FROM settings WHERE k = ?', KEY);
   const done = row ? JSON.parse(row.v) : [];
   const todo = posts.filter((p) => !done.includes(p.slug));
-  if (!todo.length) return null;
-  const out = { added: [], skipped: [], errors: [] };
+  if (!todo.length) return rev.revised.length || rev.covers.length ? { added: [], skipped: [], errors: [], ...rev } : null;
+  const out = { added: [], skipped: [], errors: [], ...rev };
   for (const [i, p] of todo.entries()) {
     try {
       if (await first(db, 'SELECT id FROM blog_posts WHERE slug = ?', p.slug)) { out.skipped.push(p.slug); done.push(p.slug); continue; }
